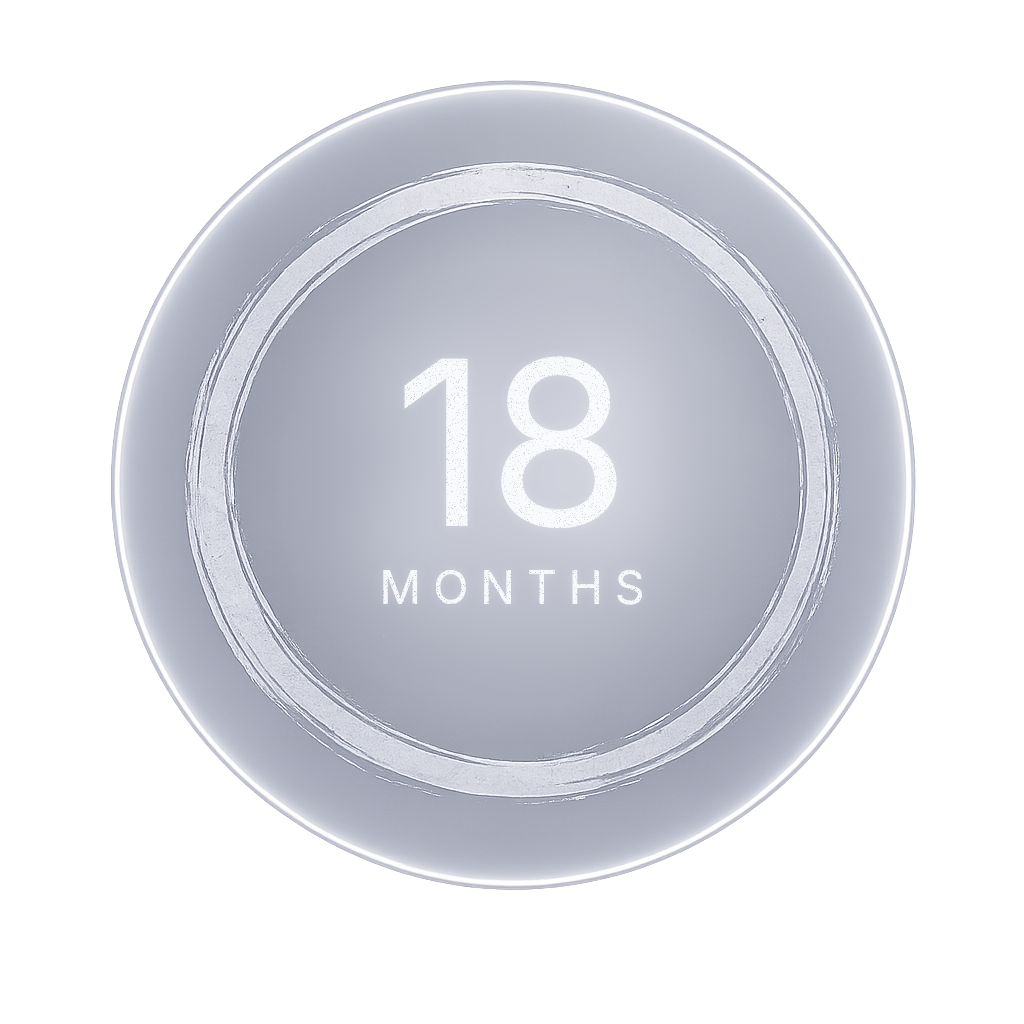
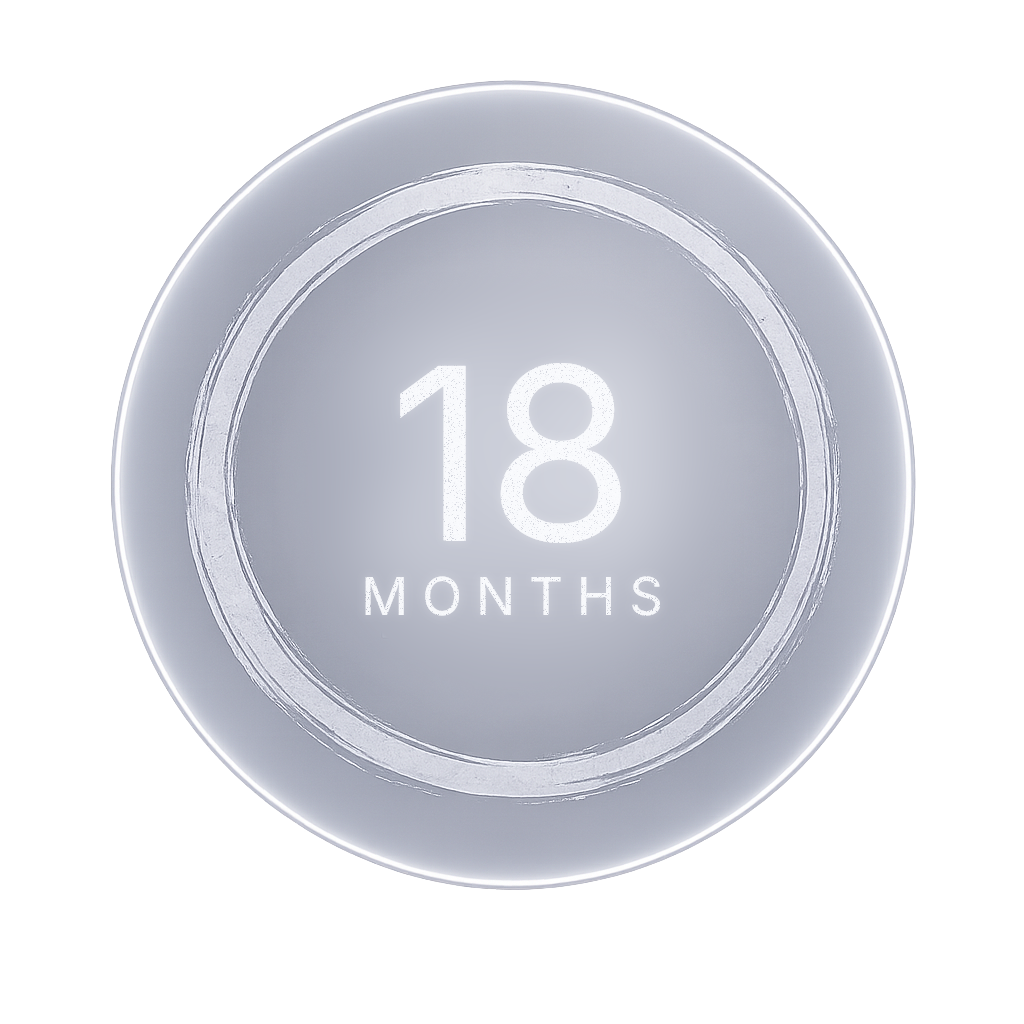
Uniform badge typography: fixed numeral and label sizes across all durations
Replaces the per-digit-count font sizing with a single 240px numeral and
52px label at fixed baselines so "1 YEAR" and "24 HOURS" sit at the same
vertical position with the same character height across the full set.

https://claude.ai/code/session_01TqmVcPLJNZuf7Q6XCPWgNk

Changed region(s): [[0.375, 0.3438, 0.625, 0.5312], [0.3438, 0.5625, 0.6562, 0.5938]]

diff --git a/scripts/generate-badges.ts b/scripts/generate-badges.ts
@@ -114,25 +114,29 @@ function distressLayer(canvas: any, bbox: { x: number; y: number; w: number; h: 
   ctx.putImageData(img, bbox.x, bbox.y)
 }
 
-function drawText(ctx: SKRSContext2D, d: Duration) {
-  const bigLen = d.big.length
-  const bigSize = bigLen === 1 ? 290 : bigLen === 2 ? 230 : 195
-  const labelSize = 46
-  const labelTracking = 12
+// All badges use the same numeral size, label size, and baseline positions
+// regardless of how many characters are in the duration. This keeps the
+// look uniform across the full set — "6 MONTHS" and "12 MONTHS" sit at
+// the same vertical position with the same character height.
+const BIG_SIZE = 240
+const LABEL_SIZE = 52
+const LABEL_TRACKING = 14
+const NUMERAL_BASELINE = 540
+const LABEL_BASELINE = 615
 
+function drawText(ctx: SKRSContext2D, d: Duration) {
   const layer = createCanvas(SIZE, SIZE)
   const lctx = layer.getContext('2d')
   lctx.fillStyle = 'rgba(252, 253, 255, 0.95)'
 
-  const numeralBaseline = CY + bigSize * 0.18
-  drawCenteredText(lctx, d.big, CX, numeralBaseline, bigSize, 200)
-  drawCenteredText(lctx, d.label, CX, numeralBaseline + 78, labelSize, 400, labelTracking)
+  drawCenteredText(lctx, d.big, CX, NUMERAL_BASELINE, BIG_SIZE, 200)
+  drawCenteredText(lctx, d.label, CX, LABEL_BASELINE, LABEL_SIZE, 400, LABEL_TRACKING)
 
   distressLayer(layer, {
-    x: CX - 280,
-    y: CY - bigSize * 0.7,
-    w: 560,
-    h: bigSize + 160,
+    x: CX - 290,
+    y: NUMERAL_BASELINE - BIG_SIZE,
+    w: 580,
+    h: BIG_SIZE + 160,
   })
 
   ctx.save()
